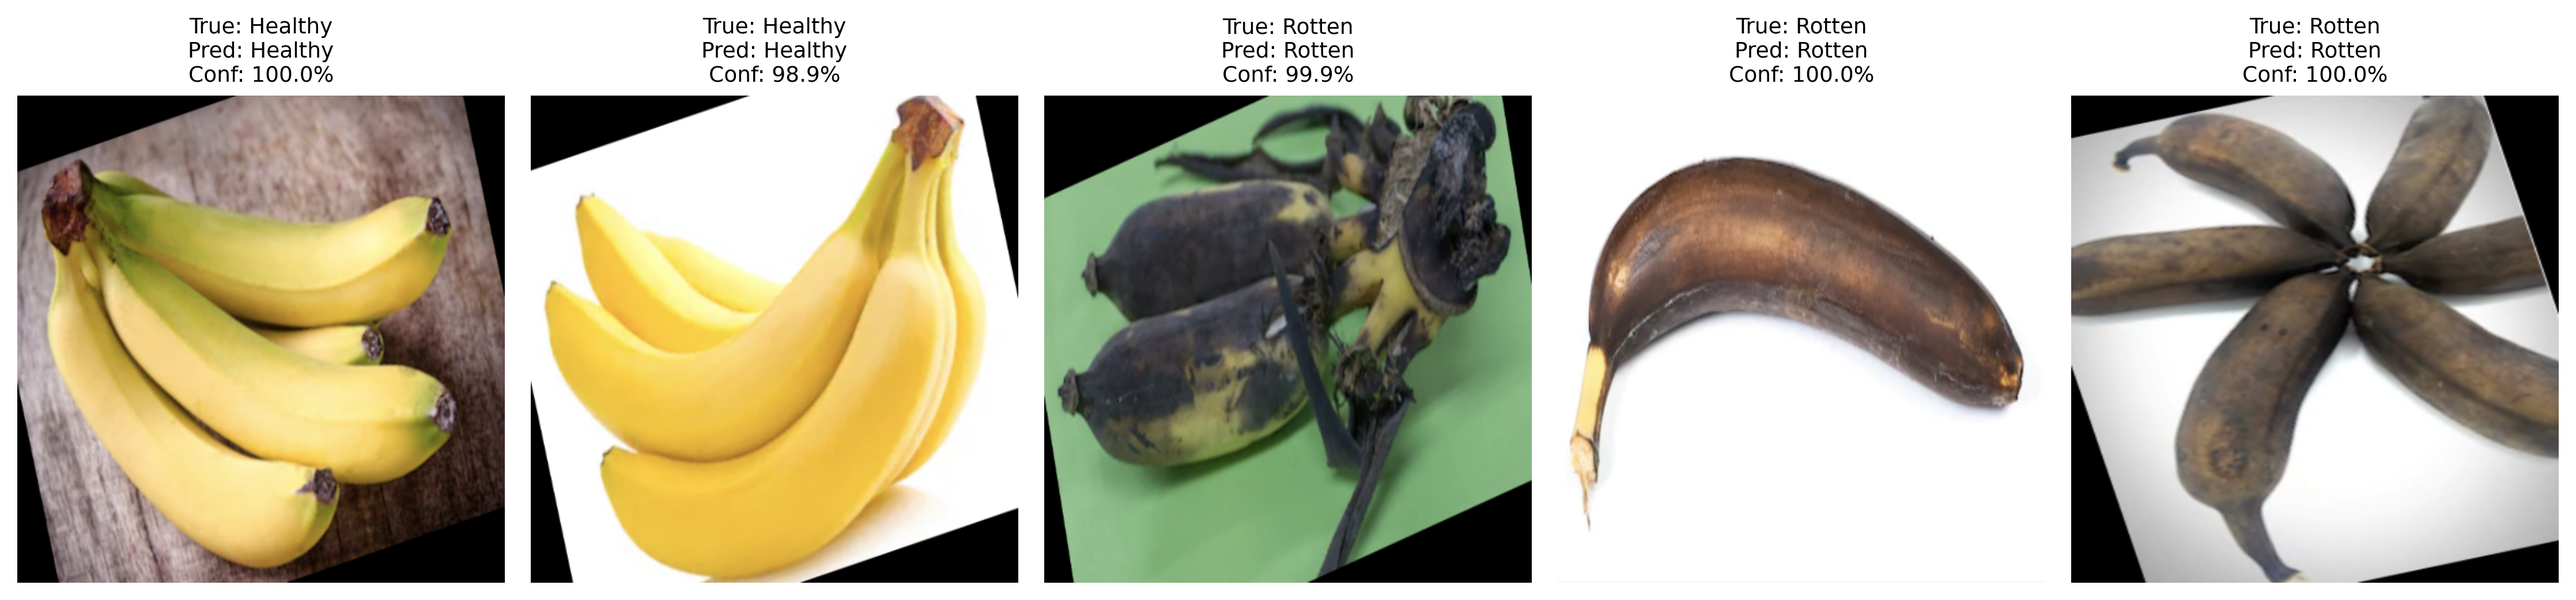
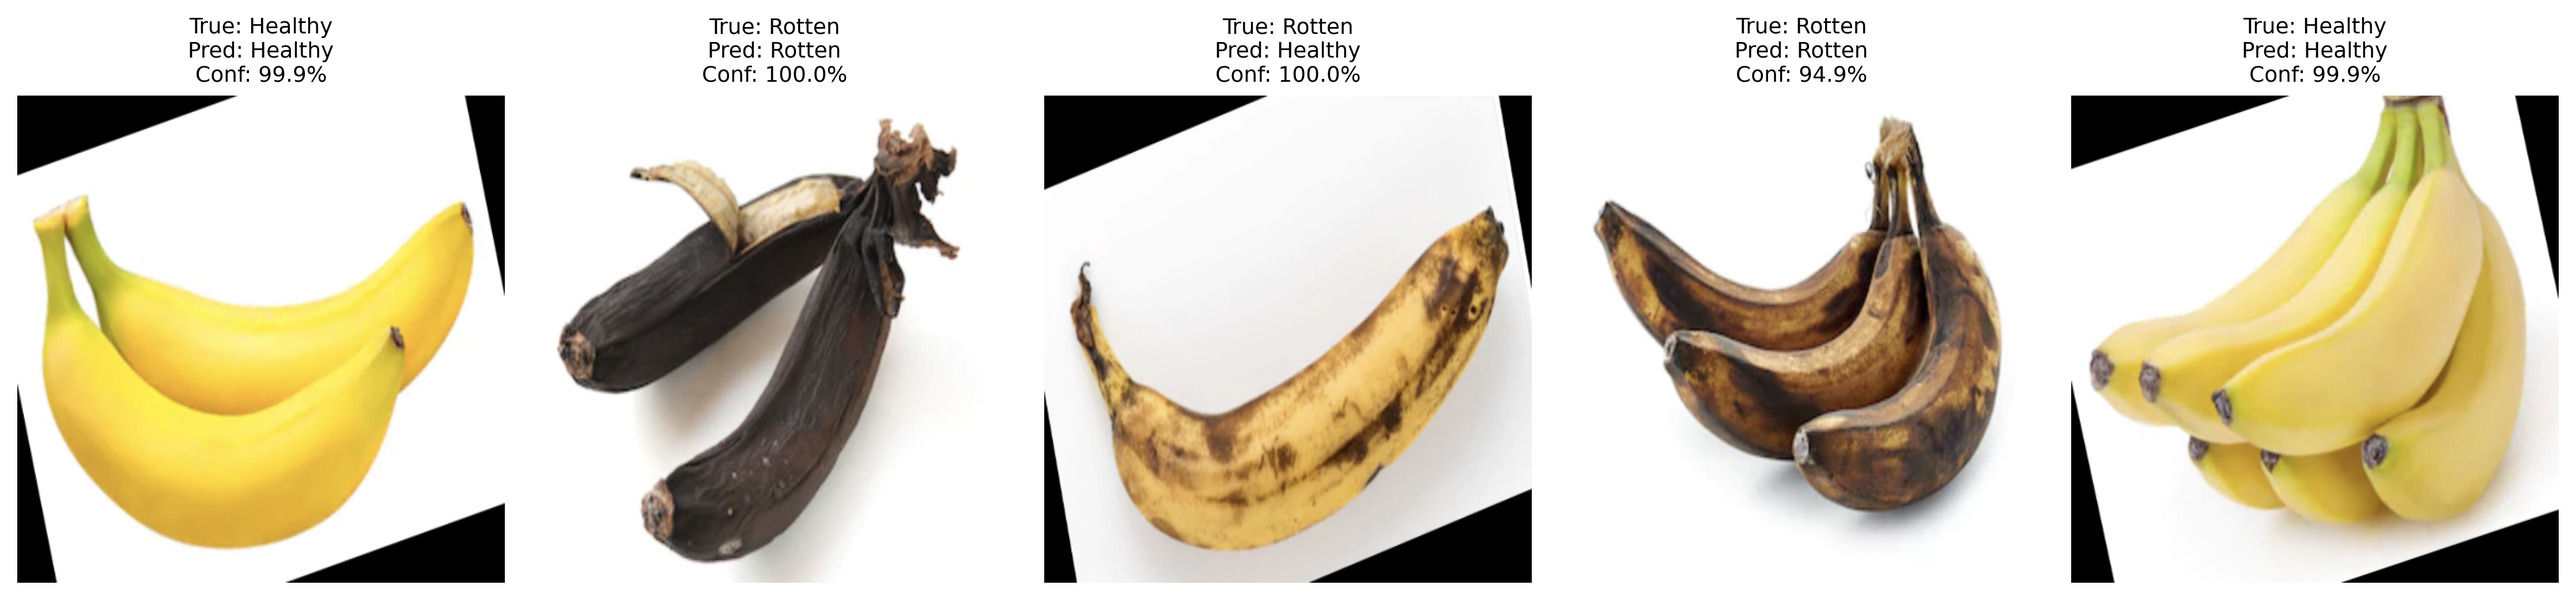
fix: optimization

diff --git a/Modules/Artificial Neural Network/src/data_pipeline.py b/Modules/Artificial Neural Network/src/data_pipeline.py
@@ -7,7 +7,7 @@ BASE_DIR = os.path.dirname(os.path.abspath(__file__))
 DATASET_PATH = os.path.join(BASE_DIR, "data/train_test_dataset")
 
 IMG_SIZE = 450
-BATCH_SIZE = 4
+BATCH_SIZE = 40
 
 def load_binary_dataset(directory):
     """

diff --git a/Modules/Artificial Neural Network/src/convolutional_autoencoder/con_aen.py b/Modules/Artificial Neural Network/src/convolutional_autoencoder/con_aen.py
@@ -40,7 +40,7 @@ autoencoder_model.compile(
 autoencoder_model.summary()
 
 # ---------- TRAINING ----------
-EPOCHS = 15
+EPOCHS = 20
 
 print("Starting Autoencoder training...")
 autoencoder_model.fit(

diff --git a/Modules/Artificial Neural Network/README.md b/Modules/Artificial Neural Network/README.md
@@ -21,7 +21,8 @@ The project consists of two main stages:
 │   │   └── con_aen_decoder.py  # Decoder architecture definition
 │   ├── convolutional_neural_network/
 │   │   ├── cnn_classifier.py   # Script to train the Classifier
-│   │   ├── cnn_model_prediction.py # Script for running predictions
+│   │   ├── cnn_model_inference.py # Script for running predictions
+│   │   ├── cnn_model_evaluation.py # Script for model evaluation
 │   │   └── aen_reconstruction.py # Helper to load data for classifier
 │   ├── data_pipeline.py        # Data loading and preprocessing logic
 │   ├── data/              
